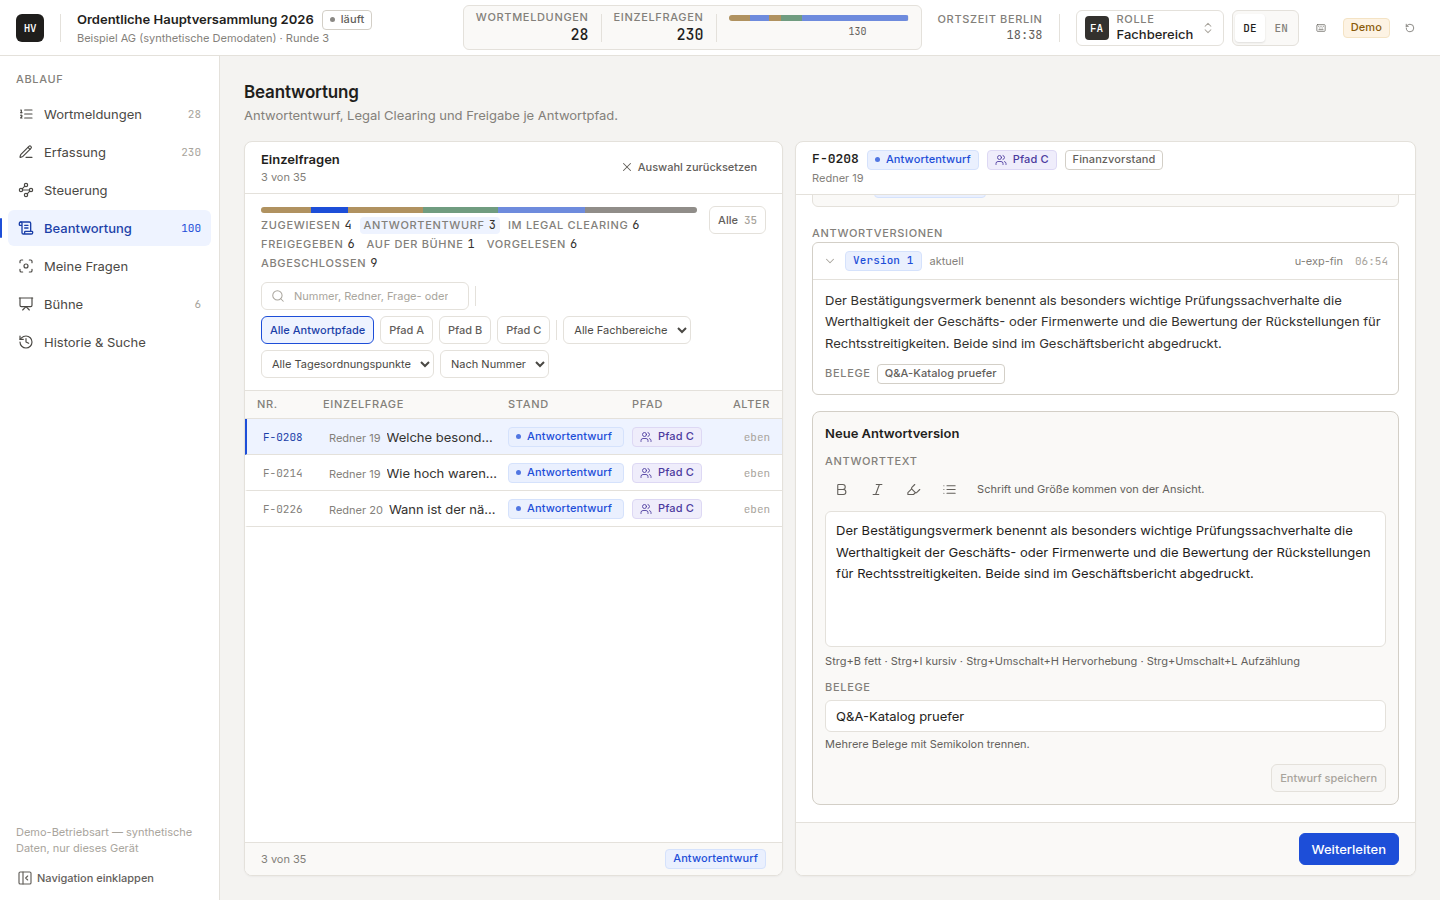
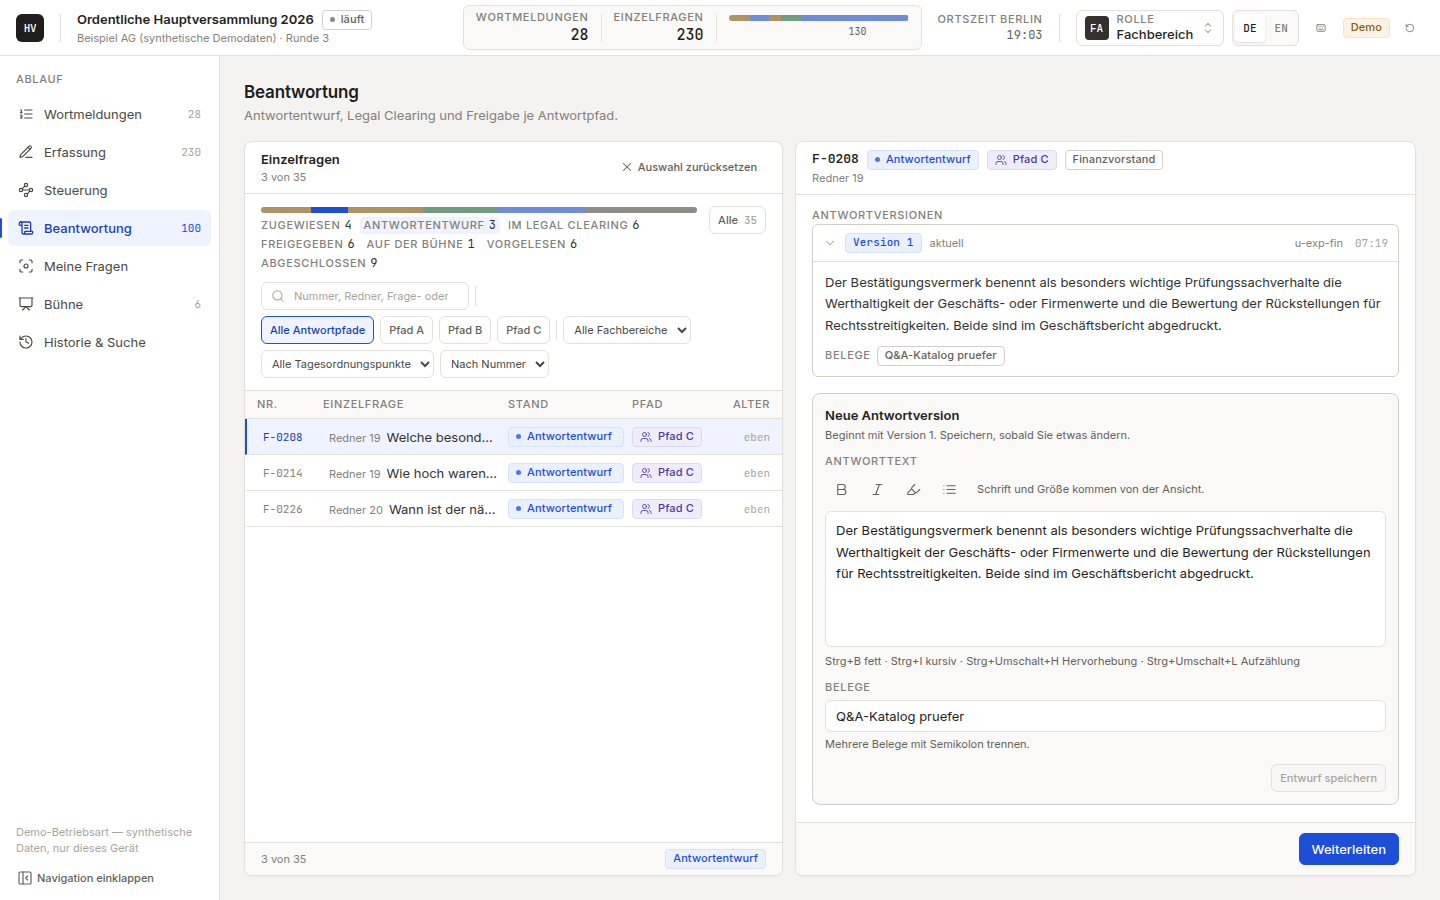
takt-048: Hinweis „Beginnt mit Version n“ am vorbelegten Feld, Semgrep-Bezeichner [skip netlify]
Design critique D1 (major): while the Beantwortung field starts from a version
and is unchanged, a line in ink-600 under the heading names that version and
why saving is locked; the locked save button points at it (aria-describedby).
No line without a version, over a refusal or once changed. New key
answers.editor.startsFrom (de/en), parity count 620->621. V1 screenshots
refreshed. The e2e identifier `secret` is renamed `typedText` (Semgrep
hardcoded-credential-literal); `tokenFirst` in draft.test.ts is `resetFirst`.

Claude-Session: https://claude.ai/code/session_013UK8Jxen4h6QSw8s3wijKh

Changed region(s): [[0.5625, 0.2178, 0.9688, 0.4978]]

diff --git a/apps/web/e2e/takt-048-nullzaehler-vorbelegung.spec.ts b/apps/web/e2e/takt-048-nullzaehler-vorbelegung.spec.ts
@@ -149,8 +149,17 @@ test('V1: the Beantwortung starts with the latest version; saving locked, "Zur P
   await expect(page.getByTestId('answer-submit-review')).toHaveClass(PRIMARY);
   await expect(save(page)).not.toHaveClass(PRIMARY);
   await expect(discard(page)).toHaveCount(0);
+  // Design critique D1: the field says which version it starts from and why saving is locked; the button points at it.
+  const version = (await latestCard(page).getAttribute('data-version')) ?? '';
+  const hint = page.getByTestId('answer-editor-start');
+  await expect(hint).toHaveText(`Beginnt mit Version ${version}. Speichern, sobald Sie etwas ändern.`);
+  await expect(hint).toHaveCSS('color', GREY_600);
+  const hintId = (await hint.getAttribute('id')) ?? '';
+  expect(hintId).not.toBe('');
+  await expect(save(page)).toHaveAttribute('aria-describedby', hintId);
   for (const lang of ['de', 'en'] as const) {
     await setLang(page, lang);
+    if (lang === 'en') await expect(hint).toHaveText(`Starts from version ${version}. Save once you change something.`);
     await clearToasts(page);
     // The evidence shows the prefilled field together with the locked save button below it.
     await save(page).scrollIntoViewIfNeeded();
@@ -169,9 +178,12 @@ test('V2: white space changes nothing; a word makes saving primary; "Verwerfen" 
   await expect(discard(page)).toHaveCount(0);
   await appendText(page, 'Zusatz048');
   await expect(save(page)).toHaveAttribute('aria-disabled', 'false');
+  await expect(page.getByTestId('answer-editor-start')).toHaveCount(0);
+  await expect(save(page)).not.toHaveAttribute('aria-describedby', /.+/);
   await expect(save(page)).toHaveClass(PRIMARY);
   await expect(discard(page)).toBeVisible();
   await discard(page).click();
+  await expect(page.getByTestId('answer-editor-start')).toBeVisible();
   await expect.poll(async () => squash(await field(page).innerText())).toBe(squash(before));
   await expect(field(page)).not.toContainText('Zusatz048');
   await expect(save(page)).toHaveAttribute('aria-disabled', 'true');
@@ -232,17 +244,18 @@ test('V5: a refusal as latest version — the field starts empty with its placeh
   await expect(field(page)).toBeVisible();
   await expect(page.getByTestId('answer-editor-placeholder')).toBeVisible();
   await expect(page.getByTestId('answer-editor-refusal-hint')).toBeVisible();
+  await expect(page.getByTestId('answer-editor-start')).toHaveCount(0);
   await expect(field(page)).not.toContainText('Ein Auskunftsanspruch besteht nicht');
   await expect(save(page)).toHaveAttribute('aria-disabled', 'true');
 });
 
 test('V6: an actor change — the field shows the latest version again, the appended text is gone', async ({ page }) => {
   const number = await openWhere(page, 'expert', 'answer_drafted', drafted);
-  const secret = 'Vertraulicher Zusatz takt-048';
-  await appendText(page, ` ${secret}`);
-  await expect(field(page)).toContainText(secret);
+  const typedText = 'Vertraulicher Zusatz takt-048';
+  await appendText(page, ` ${typedText}`);
+  await expect(field(page)).toContainText(typedText);
   await asRole(page, 'legal');
-  await expect(page.locator('#main')).not.toContainText(secret);
+  await expect(page.locator('#main')).not.toContainText(typedText);
   await asRole(page, 'expert');
   if ((await page.getByTestId('answers-detail-number').count()) === 0) {
     await page.getByTestId('answers-filter-status-all').click();
@@ -251,6 +264,6 @@ test('V6: an actor change — the field shows the latest version again, the appe
   }
   await expect(page.getByTestId('answers-detail-number')).toHaveText(number);
   await expectPrefilled(page);
-  await expect(page.locator('#main')).not.toContainText(secret);
+  await expect(page.locator('#main')).not.toContainText(typedText);
   await expect(save(page)).toHaveAttribute('aria-disabled', 'true');
 });

diff --git a/apps/web/src/features/answers/QuestionDetail.test.tsx b/apps/web/src/features/answers/QuestionDetail.test.tsx
@@ -260,3 +260,61 @@ describe('QuestionDetail starts with the latest version (takt-048, U6)', () => {
     expect(buttonTag(html, 'answer-submit-draft')).toContain('aria-disabled="true"');
   });
 });
+
+/**
+ * takt-048, follow-up to the design critique (D1, principle 5): the prefilled field says which version it starts from and
+ * why saving is locked; the locked button points at that line (`aria-describedby`). No line without a base (no version,
+ * a refusal: the field starts empty) and none once the draft is changed.
+ */
+describe('the start hint of the Beantwortung (takt-048, design critique D1)', () => {
+  const V1: AnswerVersion = { version: 1, text: 'Erste Fassung.', createdAt: at, createdBy: { id: 'u', role: 'expert' } };
+  const V2: AnswerVersion = { version: 2, text: 'Zweite Fassung.', createdAt: at, createdBy: { id: 'u', role: 'expert' } };
+  const drafted = (answers: AnswerVersion[]): Question => ({ ...q(['answer.draft', 'question.submit_review'], answers), status: 'answer_drafted' });
+  const hintTag = (html: string): string => html.match(/<[a-z]+[^>]*data-testid="answer-editor-start"[^>]*>/)?.[0] ?? '';
+
+  it('with a latest version: the hint names its number, the locked save button is described by it', () => {
+    const html = render(drafted([V1, V2]));
+    expect(html).toContain(de('answers.editor.startsFrom', { version: 2 }));
+    const id = hintTag(html).match(/ id="([^"]+)"/)?.[1] ?? '';
+    expect(id).not.toBe('');
+    const save = buttonTag(html, 'answer-submit-draft');
+    expect(save).toContain('aria-disabled="true"');
+    expect(save).toMatch(new RegExp(`aria-describedby="${id.replace(/[.*+?^${}()|[\]\\]/g, '\\$&')}"`));
+  });
+
+  it('no hint without a version and over a refusal', () => {
+    for (const html of [
+      render(drafted([])),
+      render(drafted([V1, { ...noGround(refusal({ version: 2 })), answerKind: 'refusal_no_claim' }])),
+    ]) {
+      expect(hintTag(html)).toBe('');
+      expect(buttonTag(html, 'answer-submit-draft')).not.toContain('aria-describedby');
+    }
+  });
+
+  it('AnswerEditor: no hint and no description once the draft is changed', () => {
+    const editor = (dirty: boolean, startsFrom?: number): string =>
+      renderToStaticMarkup(
+        <AnswerEditor
+          body={{ blocks: [{ type: 'paragraph', content: [{ text: 'Text' }] }] }}
+          generation={0}
+          sources=""
+          busy={false}
+          canSave={dirty}
+          dirty={dirty}
+          {...(startsFrom !== undefined ? { startsFrom } : {})}
+          primary
+          hasApproval={false}
+          onBody={() => undefined}
+          onSources={() => undefined}
+          onSave={() => undefined}
+          onDiscard={() => undefined}
+        />,
+      );
+    expect(hintTag(editor(false, 3))).not.toBe('');
+    expect(editor(false, 3)).toContain(de('answers.editor.startsFrom', { version: 3 }));
+    const changed = editor(true, 3);
+    expect(hintTag(changed)).toBe('');
+    expect(buttonTag(changed, 'answer-submit-draft')).not.toContain('aria-describedby');
+  });
+});

diff --git a/apps/web/src/features/answers/AnswerEditor.tsx b/apps/web/src/features/answers/AnswerEditor.tsx
@@ -23,6 +23,11 @@ interface AnswerEditorProps {
   canSave: boolean;
   /** takt-048: the draft differs from its base; only then "Verwerfen" is offered. */
   dirty: boolean;
+  /**
+   * takt-048 (design critique D1): the number of the version the field starts from, when it starts from one (not without
+   * a version, not over a refusal). While the draft is unchanged a line says so and why saving is locked.
+   */
+  startsFrom?: number;
   primary: boolean;
   hasApproval: boolean;
   onBody: (value: AnswerBodyInput | null) => void;
@@ -38,6 +43,7 @@ export function AnswerEditor({
   busy,
   canSave,
   dirty,
+  startsFrom,
   primary,
   hasApproval,
   onBody,
@@ -47,10 +53,18 @@ export function AnswerEditor({
 }: AnswerEditorProps) {
   const t = useT();
   const labelId = useId();
+  const startId = useId();
+  const showStart = startsFrom !== undefined && !dirty;
 
   return (
     <section className="rounded-lg border border-line-strong bg-sunken p-3">
       <h3 className="text-[13px] font-semibold text-ink-900">{t('answers.editor.title')}</h3>
+      {showStart && (
+        // ink-600: 4.5:1 or more on this sunken ground, as the sources hint below.
+        <p id={startId} data-testid="answer-editor-start" className="mt-0.5 text-2xs text-ink-600">
+          {t('answers.editor.startsFrom', { version: startsFrom })}
+        </p>
+      )}
 
       <div className="mt-2 block">
         <span id={labelId} className="hv-label">
@@ -109,6 +123,8 @@ export function AnswerEditor({
           variant={primary ? 'primary' : 'secondary'}
           data-testid="answer-submit-draft"
           aria-disabled={!canSave}
+          // The locked button says why it is locked: the start line (a screen reader otherwise only hears "dimmed").
+          {...(showStart && !canSave ? { 'aria-describedby': startId } : {})}
           onClick={onSave}
         >
           {t('answers.editor.save')}

diff --git a/apps/web/src/features/answers/draft.test.ts b/apps/web/src/features/answers/draft.test.ts
@@ -181,13 +181,13 @@ describe('U5: afterSave', () => {
     const draft = { ...start(), body: typed };
     const saved = question({ answers: [version(1), version(2, { text: 'Antwort zwei', body: previewAnswer(typed)! })] });
     const sent = { body: typed, sources: '' };
-    const tokenFirst = onRecord(afterSave(draft, sent, 2), saved).draft;
+    const resetFirst = onRecord(afterSave(draft, sent, 2), saved).draft;
     const recordFirst = afterSave(onRecord(draft, saved).draft, sent, 2);
-    expect(pick(tokenFirst)).toEqual(pick(recordFirst));
-    expect(tokenFirst.generation).toBe(recordFirst.generation);
-    expect(tokenFirst.rebase).toBe(recordFirst.rebase);
-    expect(tokenFirst.baseSources).toBe(recordFirst.baseSources);
-    expect(isDirty(tokenFirst)).toBe(false);
+    expect(pick(resetFirst)).toEqual(pick(recordFirst));
+    expect(resetFirst.generation).toBe(recordFirst.generation);
+    expect(resetFirst.rebase).toBe(recordFirst.rebase);
+    expect(resetFirst.baseSources).toBe(recordFirst.baseSources);
+    expect(isDirty(resetFirst)).toBe(false);
   });
 
   it('both orders also agree when text was typed while saving', () => {
@@ -195,10 +195,10 @@ describe('U5: afterSave', () => {
     const draft = { ...start(), body: more };
     const saved = question({ answers: [version(1), version(2, { text: 'Antwort zwei', body: previewAnswer(typed)! })] });
     const sent = { body: typed, sources: '' };
-    const tokenFirst = onRecord(afterSave(draft, sent, 2), saved).draft;
+    const resetFirst = onRecord(afterSave(draft, sent, 2), saved).draft;
     const recordFirst = afterSave(onRecord(draft, saved).draft, sent, 2);
-    expect(pick(tokenFirst)).toEqual(pick(recordFirst));
-    expect(tokenFirst.rebase).toBe(false);
+    expect(pick(resetFirst)).toEqual(pick(recordFirst));
+    expect(resetFirst.rebase).toBe(false);
     expect(recordFirst.rebase).toBe(false);
   });
 });

diff --git a/apps/web/src/i18n/parity.test.ts b/apps/web/src/i18n/parity.test.ts
@@ -173,14 +173,15 @@ describe('i18n parity checks', () => {
   // forward dialog).
   // Scheibe 054: +24 keys for the focus view (shell 3: nav, page title, description; focus 21).
   // Scheibe 055b: +9 keys for the answer format (answers 8: toolbar, four marks, hint, keys, format-only; history 1).
-  // takt-048: +1 `answers.editor.rebase`, a newer answer version arrived over a changed draft in the Beantwortung.
-  it('(f) Total key count is 620 across all modules and matches de and en', () => {
+  // takt-048: +1 `answers.editor.rebase`, a newer answer version arrived over a changed draft in the Beantwortung;
+  // +1 `answers.editor.startsFrom`, the version the prefilled field starts from (design critique D1).
+  it('(f) Total key count is 621 across all modules and matches de and en', () => {
     const totalKeys = modules.reduce((sum, m) => sum + Object.keys(m.de).length, 0);
     const deKeys = Object.keys(de as Record<string, string>).length;
     const enKeys = Object.keys(en as Record<string, string>).length;
 
-    expect(totalKeys).toBe(620);
-    expect(deKeys).toBe(620);
-    expect(enKeys).toBe(620);
+    expect(totalKeys).toBe(621);
+    expect(deKeys).toBe(621);
+    expect(enKeys).toBe(621);
   });
 });

diff --git a/apps/web/src/features/answers/QuestionDetail.tsx b/apps/web/src/features/answers/QuestionDetail.tsx
@@ -807,6 +807,8 @@ export function QuestionDetail({
               busy={busy}
               canSave={saveable}
               dirty={dirty}
+              // Only a field that starts from a version says so; empty without one and over a refusal (no base body).
+              {...(draft.baseBody !== null && draft.baseVersion > 0 ? { startsFrom: draft.baseVersion } : {})}
               primary={primary === 'draft'}
               hasApproval={question.approval !== undefined}
               onBody={(body) => setDraft((current) => ({ ...current, body }))}

diff --git a/apps/web/src/i18n/answers.de.ts b/apps/web/src/i18n/answers.de.ts
@@ -63,6 +63,7 @@ export const answersDe = {
   'answers.editor.discard': 'Eingabe verwerfen',
   'answers.editor.hint': 'Eine neue Version hebt eine bestehende Freigabe auf.',
   'answers.editor.rebase': 'Inzwischen liegt eine neuere Antwortversion vor. Ihr Text ist nicht gespeichert.',
+  'answers.editor.startsFrom': 'Beginnt mit Version {version}. Speichern, sobald Sie etwas ändern.',
   'answers.format.toolbar': 'Hausformat',
   'answers.format.bold': 'Fett',
   'answers.format.italic': 'Kursiv',

diff --git a/apps/web/src/i18n/answers.en.ts b/apps/web/src/i18n/answers.en.ts
@@ -65,6 +65,7 @@ export const answersEn: typeof answersDe = {
   'answers.editor.discard': 'Discard the input',
   'answers.editor.hint': 'A new version voids an existing approval.',
   'answers.editor.rebase': 'A newer answer version has arrived meanwhile. Your text is not saved.',
+  'answers.editor.startsFrom': 'Starts from version {version}. Save once you change something.',
   'answers.format.toolbar': 'House format',
   'answers.format.bold': 'Bold',
   'answers.format.italic': 'Italic',
